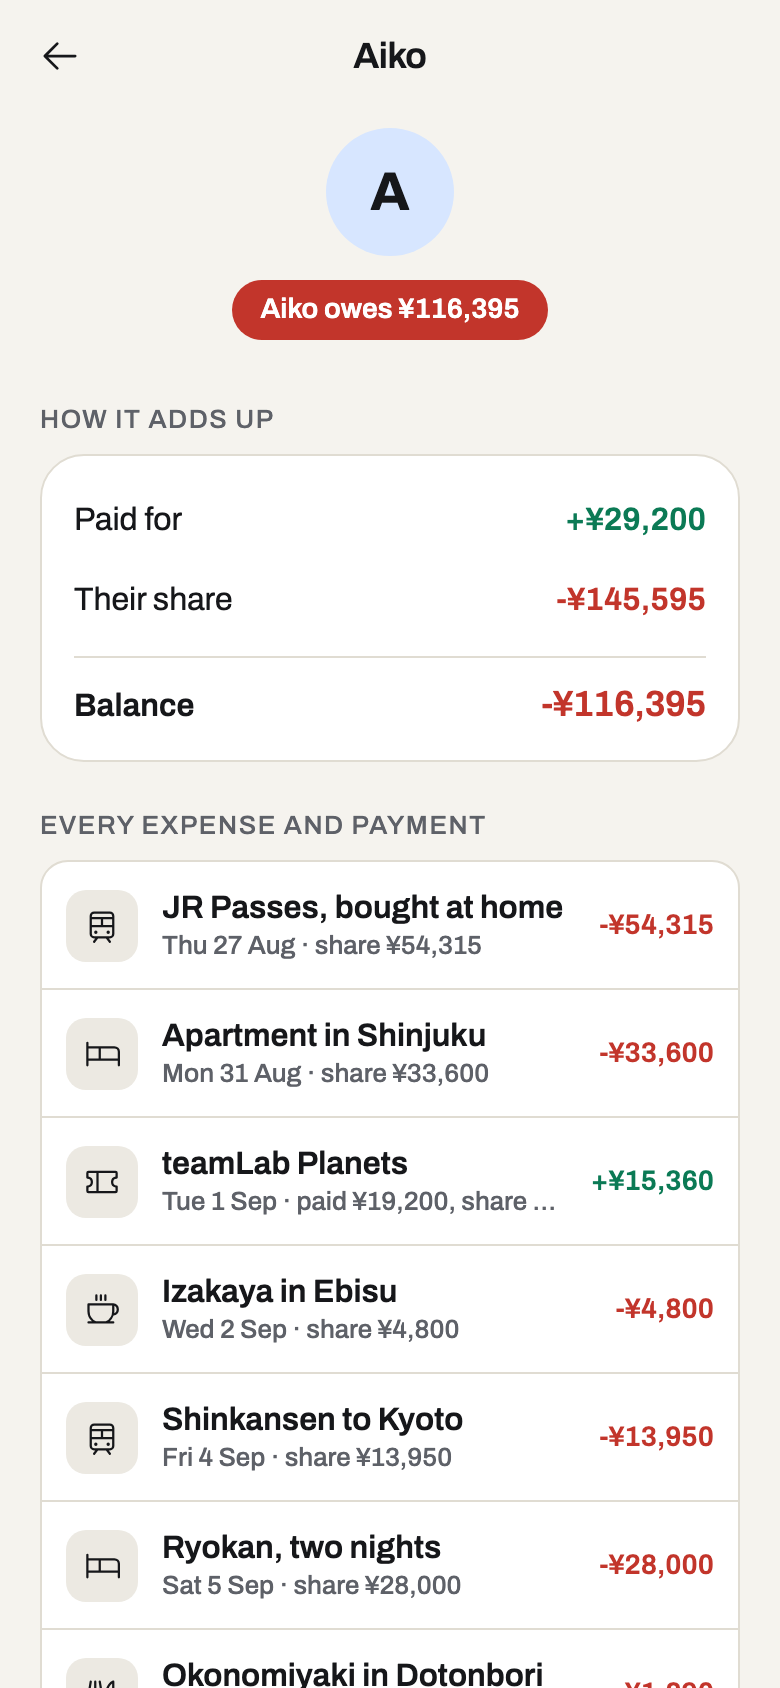
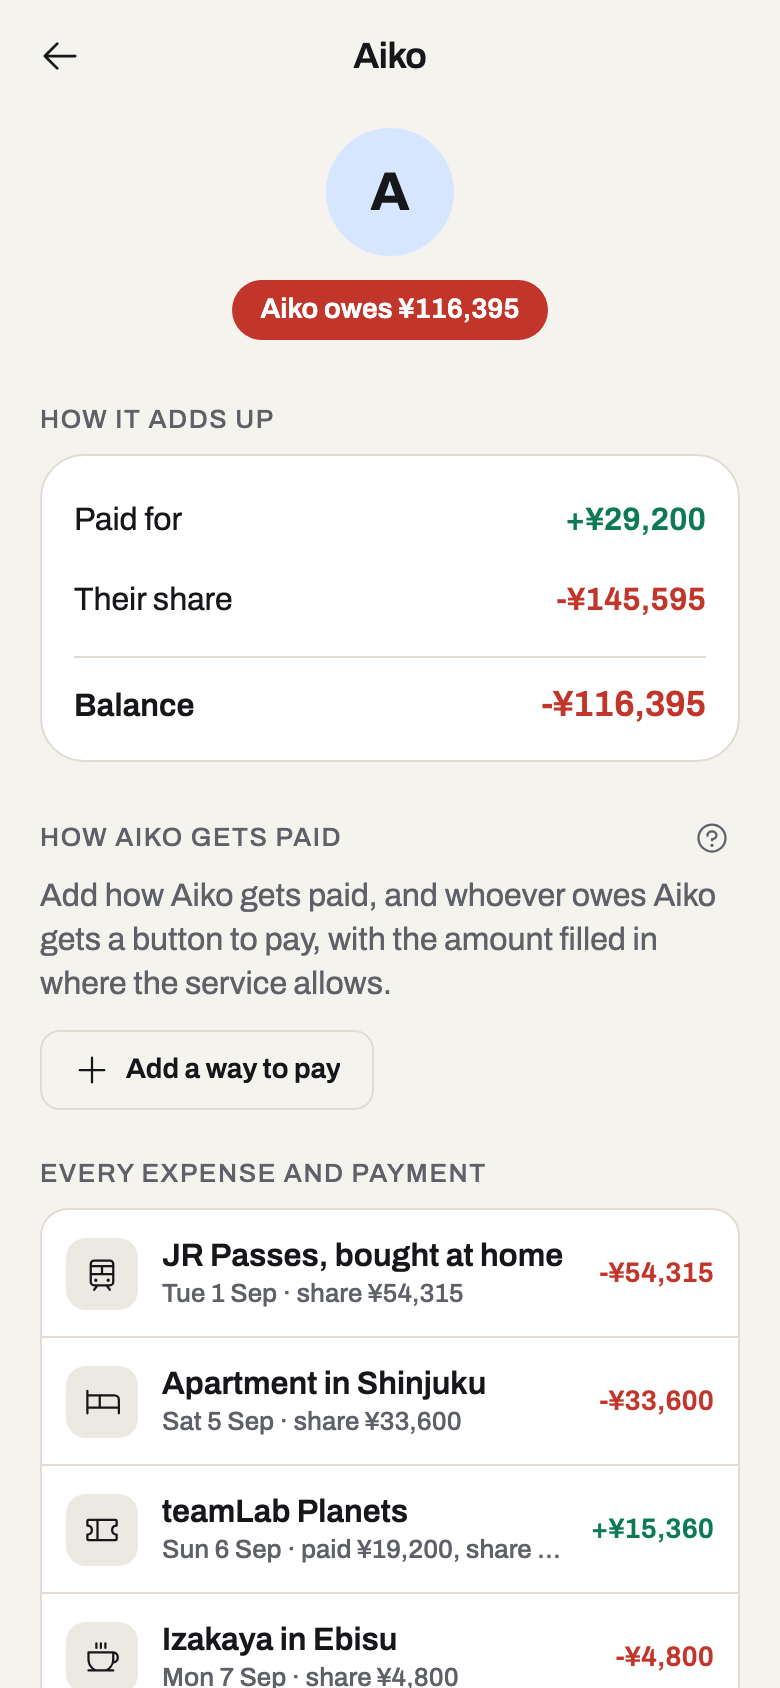
Refresh the README's screens, and show paying, repeats and help
- capture.mjs now opens Quits as someone who has used it before, so
  the groups list shows the groups rather than the welcome for a first
  visit, and the demo starts from them too.
- Three new screens: paying Rui by PayPal or Monzo beside a reminder
  sent to Ana, a rent repeating monthly, and help opened at the answer
  about getting paid. They fill a third row of the README's table.
- The screens 2.1 to 2.3 changed are retaken: Settle up and the wide
  window with their reminders, Aiko's page with how she gets paid, and
  the ? beside Split. The hero is recomposed from them. The rest came
  out unchanged.

diff --git a/README.md b/README.md
@@ -139,6 +139,29 @@ The screenshots follow your GitHub theme. They're made from the web build by [`s
       <br><sub><b>Spending</b> by category and over time</sub>
     </td>
   </tr>
+  <tr>
+    <td align="center">
+      <picture>
+        <source media="(prefers-color-scheme: dark)" srcset="docs/dark-pay.png">
+        <img src="docs/light-pay.png" width="250" alt="Settling up a Lisbon weekend: buttons to pay Rui with PayPal or Monzo, and Ana reminded yesterday">
+      </picture>
+      <br><sub><b>Pay in a tap</b>, or send a reminder</sub>
+    </td>
+    <td align="center">
+      <picture>
+        <source media="(prefers-color-scheme: dark)" srcset="docs/dark-repeat.png">
+        <img src="docs/light-repeat.png" width="250" alt="Rent of £1,200 split three ways, repeating monthly, with the date the next one is added">
+      </picture>
+      <br><sub><b>Bills that come back</b> every month</sub>
+    </td>
+    <td align="center">
+      <picture>
+        <source media="(prefers-color-scheme: dark)" srcset="docs/dark-help.png">
+        <img src="docs/light-help.png" width="250" alt="Help opened at the answer to how people can pay you from Quits, above a search and the list of questions">
+      </picture>
+      <br><sub><b>Help</b>, with the answer asked for first</sub>
+    </td>
+  </tr>
 </table>
 
 <picture>
